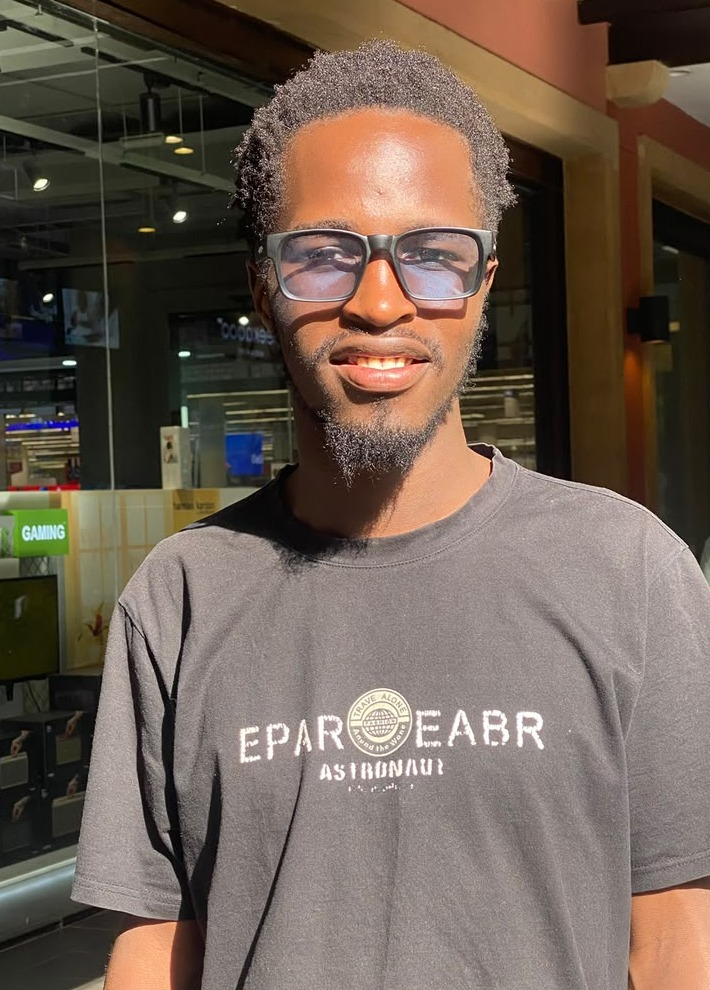
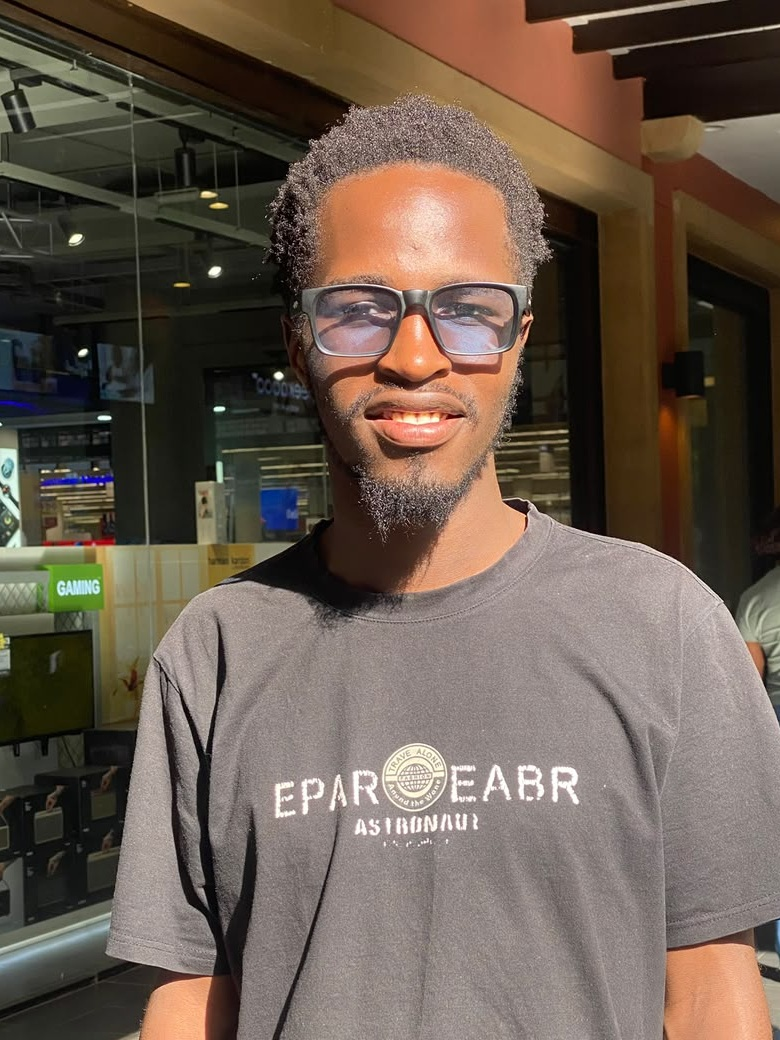
cropped the photo well

diff --git a/src/app/globals.css b/src/app/globals.css
@@ -32,10 +32,24 @@
 }
 
 html { color-scheme: dark; }
+html { scroll-behavior: smooth; }
 
 body {
   background: var(--color-bg);
   color: var(--color-text);
+}
+
+a, button {
+  transition: color 180ms ease, background-color 180ms ease, border-color 180ms ease, opacity 180ms ease;
+}
+
+main > div {
+  animation: page-arrive 320ms ease-out both;
+}
+
+@keyframes page-arrive {
+  from { opacity: 0; transform: translateY(5px); }
+  to { opacity: 1; transform: translateY(0); }
 }
 
 :focus-visible {
@@ -54,6 +68,11 @@ body {
     transition-duration: 0.001ms !important;
     scroll-behavior: auto !important;
   }
+}
+
+@media (prefers-reduced-motion: reduce) {
+  html { scroll-behavior: auto; }
+  main > div { animation: none; }
 }
 
 .grain { background-image: none; }

diff --git a/src/app/page.tsx b/src/app/page.tsx
@@ -41,7 +41,7 @@ export default function Home() {
             width={192}
             height={192}
             priority
-            className="size-36 rounded-full object-cover sm:size-48"
+            className="size-36 rounded-full object-cover object-[center_24%] sm:size-48"
           />
         )}
       </section>
